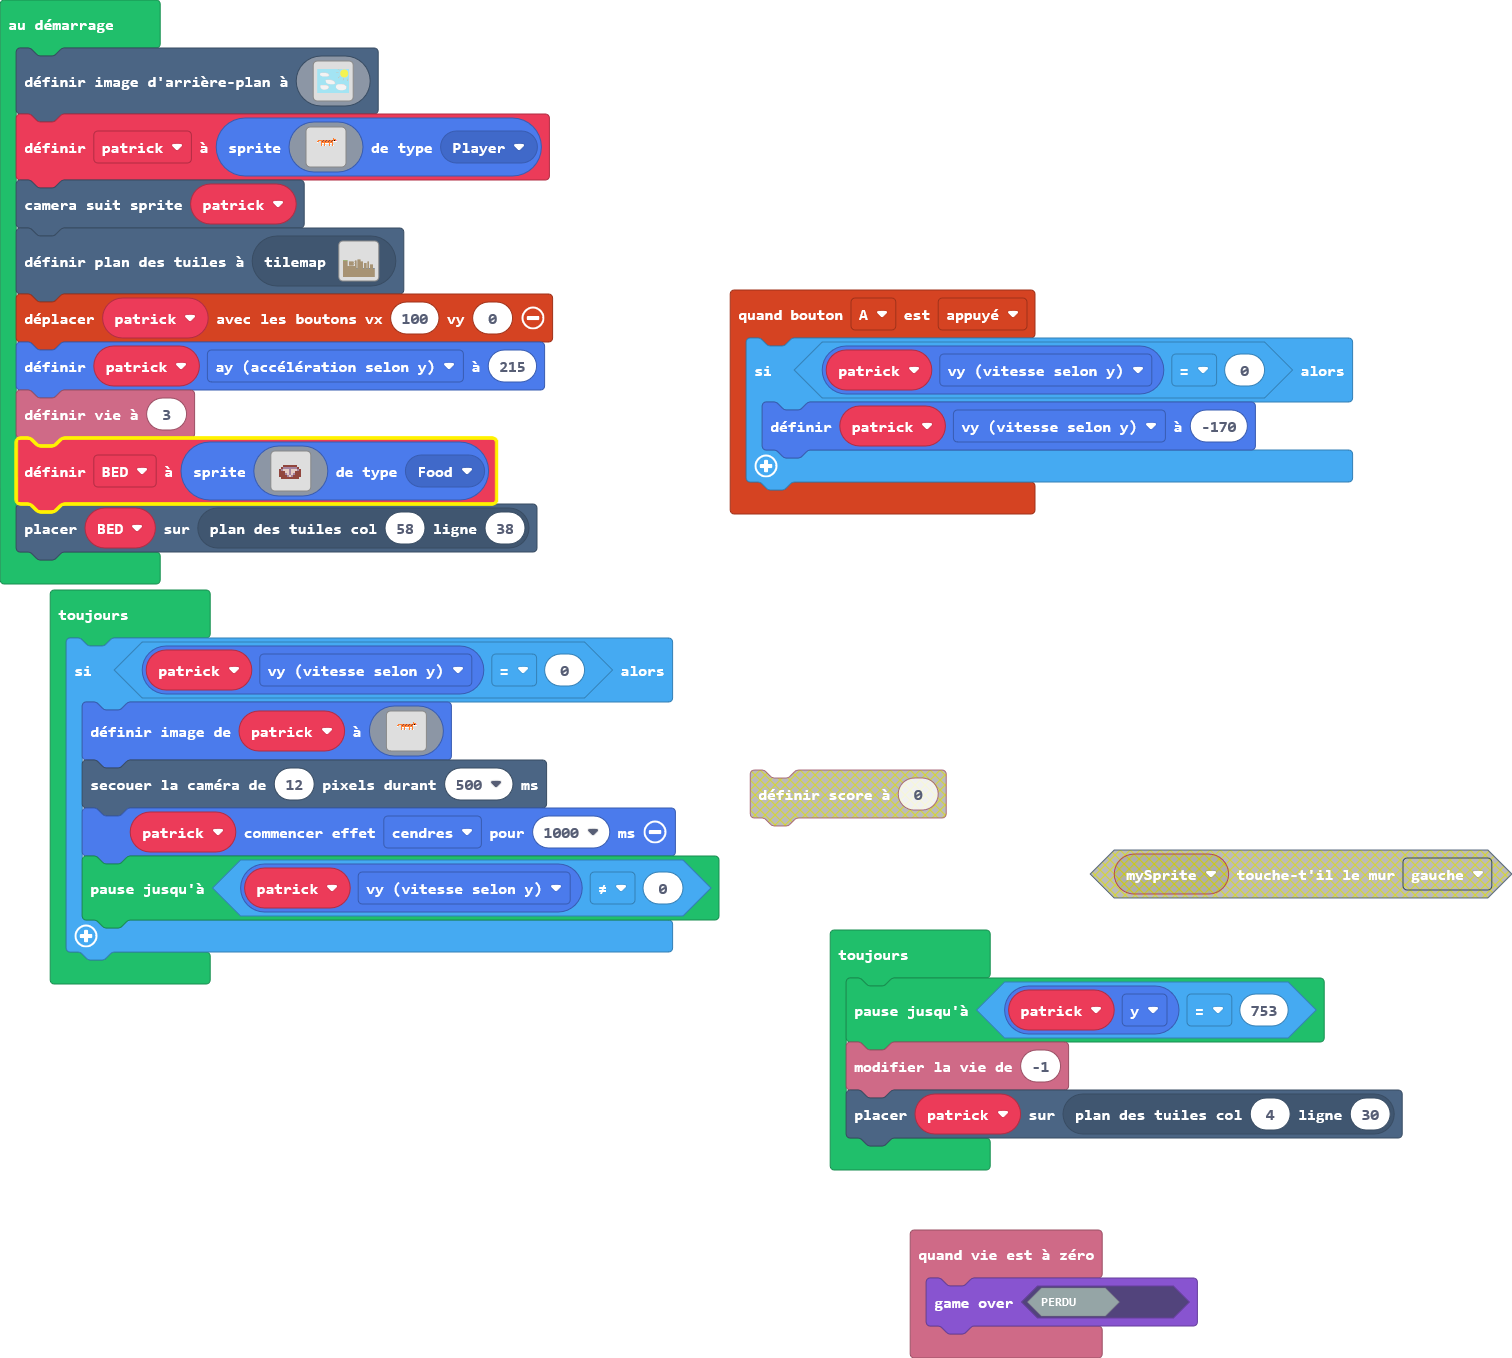
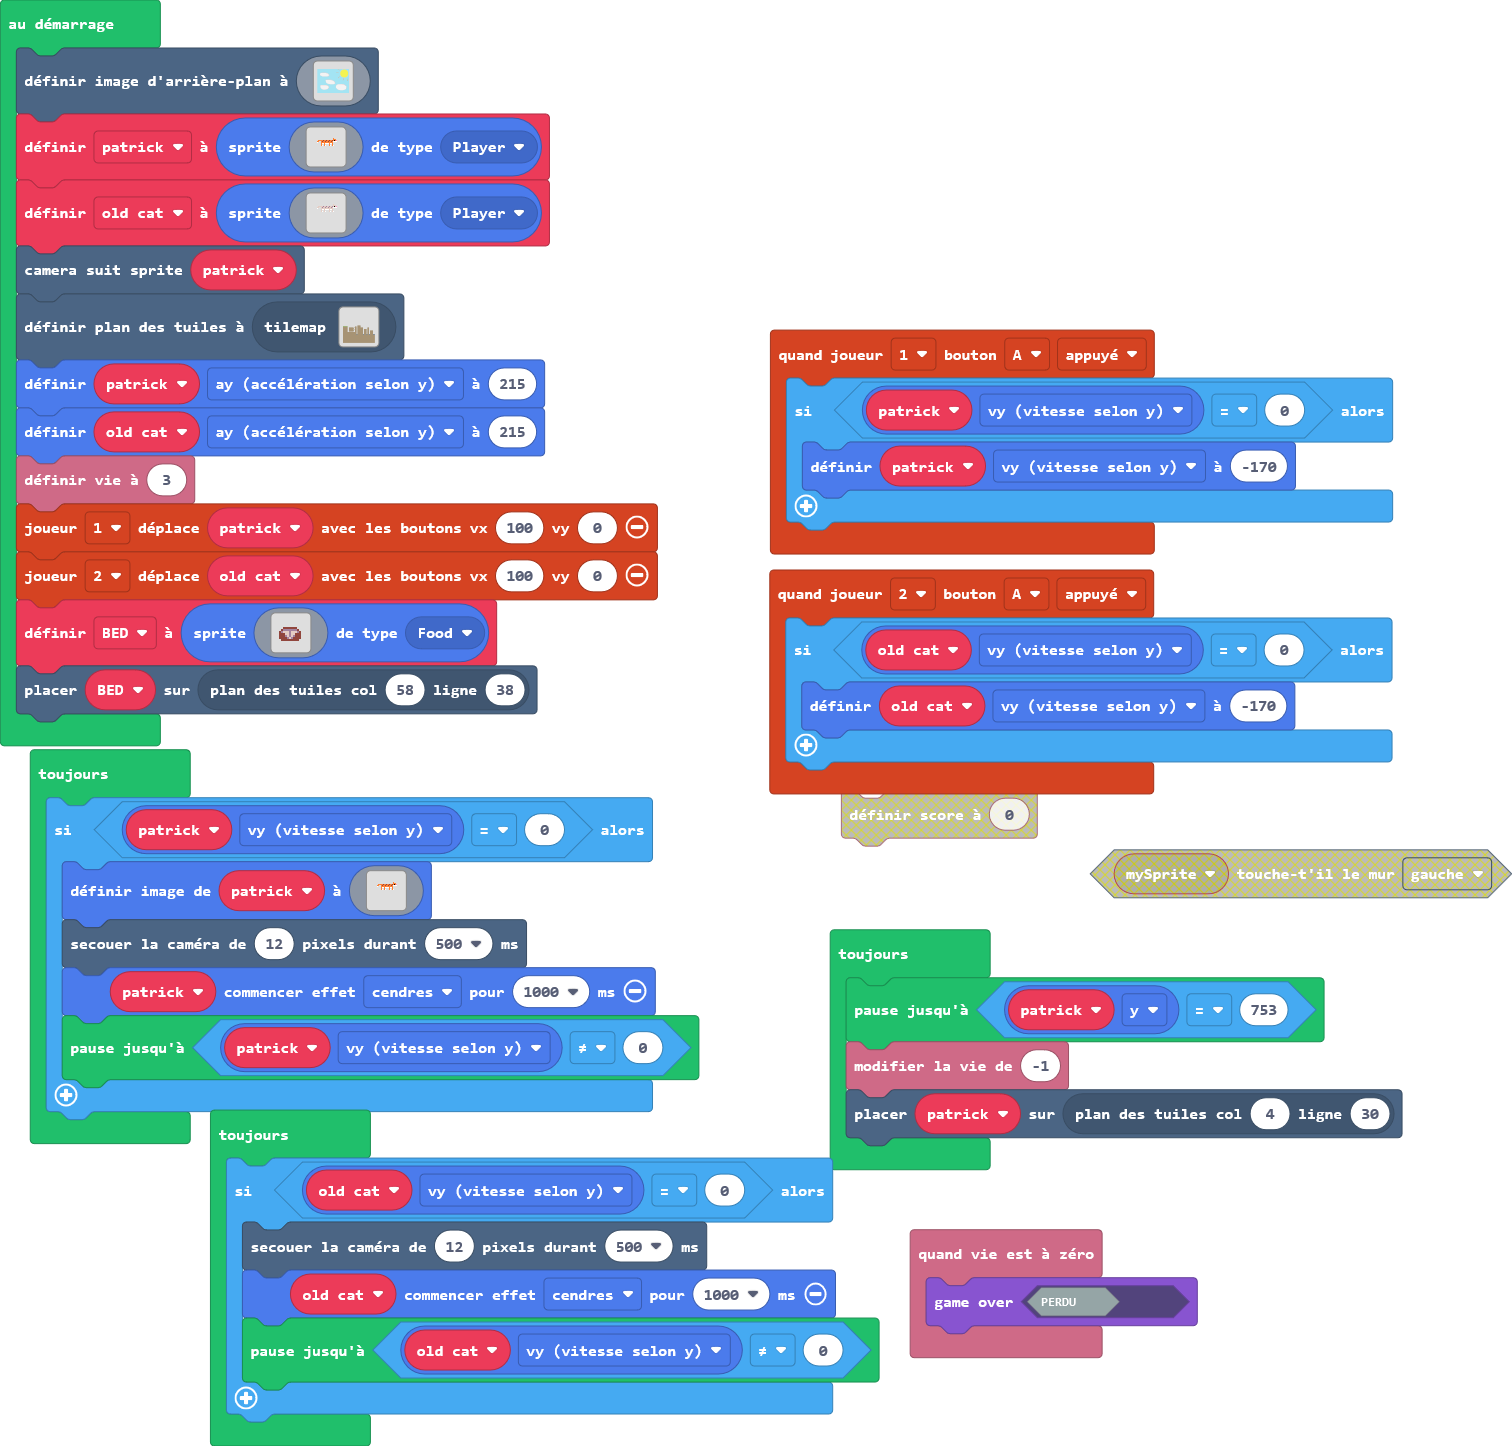
Mise à jour main.blocks, main.ts, tilemap.g.jres, tilemap.g.ts, images.g.jres, images.g.ts

diff --git a/main.ts b/main.ts
@@ -1,14 +1,20 @@
 namespace SpriteKind {
     export const BED = SpriteKind.create()
 }
-controller.A.onEvent(ControllerButtonEvent.Pressed, function () {
+controller.player1.onButtonEvent(ControllerButton.A, ControllerButtonEvent.Pressed, function () {
     if (patrick.vy == 0) {
         patrick.vy = -170
+    }
+})
+controller.player2.onButtonEvent(ControllerButton.A, ControllerButtonEvent.Pressed, function () {
+    if (old_cat.vy == 0) {
+        old_cat.vy = -170
     }
 })
 info.onLifeZero(function () {
     game.gameOver(false)
 })
+let old_cat: Sprite = null
 let patrick: Sprite = null
 scene.setBackgroundImage(img`
     9999999999999999999999999999999999999999999999999999999999999999999999999999999999999999999999999999999999999999999999999999999999999999999999999999999999999999
@@ -132,83 +138,20 @@ scene.setBackgroundImage(img`
     9999999999999999999999999999999999999999999999999999999999999999999999999999999999999999999999999999999999999999999999999999999999999999999999999999999999999999
     9999999999999999999999999999999999999999999999999999999999999999999999999999999999999999999999999999999999999999999999999999999999999999999999999999999999999999
     `)
-patrick = sprites.create(img`
-    ................................
-    ................................
-    ................................
-    ................................
-    ................................
-    ................................
-    ................................
-    .......................4........
-    .......................444......
-    ........44444e44e44e44e4f43.....
-    .......44..4e44e44e44e41111.....
-    .......1...444444444444.........
-    ...........411411114114.........
-    ...........4..4....4..4.........
-    ...........41.41...41.41........
-    ................................
-    ................................
-    ................................
-    ................................
-    ................................
-    ................................
-    ................................
-    ................................
-    ................................
-    ................................
-    ................................
-    ................................
-    ................................
-    ................................
-    ................................
-    ................................
-    ................................
-    `, SpriteKind.Player)
+patrick = sprites.create(assets.image`patrick`, SpriteKind.Player)
+old_cat = sprites.create(assets.image`old cat`, SpriteKind.Player)
 scene.cameraFollowSprite(patrick)
 tiles.setCurrentTilemap(tilemap`niveau4`)
-controller.moveSprite(patrick, 100, 0)
 patrick.ay = 215
+old_cat.ay = 215
 info.setLife(3)
+controller.player1.moveSprite(patrick, 100, 0)
+controller.player2.moveSprite(old_cat, 100, 0)
 let BED = sprites.create(assets.image`myImage2`, SpriteKind.Food)
 tiles.placeOnTile(BED, tiles.getTileLocation(58, 38))
 forever(function () {
     if (patrick.vy == 0) {
-        patrick.setImage(img`
-            ................................
-            ................................
-            ................................
-            ................................
-            ................................
-            ................................
-            ................................
-            .......................4........
-            .......................444......
-            ........44444e44e44e44e4f43.....
-            .......44..4e44e44e44e41111.....
-            .......1...444444444444.........
-            ...........411411114114.........
-            ...........4..4....4..4.........
-            ...........41.41...41.41........
-            ................................
-            ................................
-            ................................
-            ................................
-            ................................
-            ................................
-            ................................
-            ................................
-            ................................
-            ................................
-            ................................
-            ................................
-            ................................
-            ................................
-            ................................
-            ................................
-            ................................
-            `)
+        patrick.setImage(assets.image`patrick`)
         scene.cameraShake(12, 500)
         patrick.startEffect(effects.ashes, 1000)
         pauseUntil(() => patrick.vy != 0)
@@ -218,4 +161,11 @@ forever(function () {
     pauseUntil(() => patrick.y == 753)
     info.changeLifeBy(-1)
     tiles.placeOnTile(patrick, tiles.getTileLocation(4, 30))
+})
+forever(function () {
+    if (old_cat.vy == 0) {
+        scene.cameraShake(12, 500)
+        old_cat.startEffect(effects.ashes, 1000)
+        pauseUntil(() => old_cat.vy != 0)
+    }
 })

diff --git a/images.g.ts b/images.g.ts
@@ -111,6 +111,111 @@ namespace myImages {
 . . . . . . . . . . . . . . . . 
 . . . . . . . . . . . . . . . . 
 `;
+            case "image5":
+            case "myImage3":return img`
+................................
+................................
+................................
+................................
+................................
+................................
+................................
+.......................4........
+.......................444......
+........44444e44e44e44e4f43.....
+.......44..4e44e44e44e41111.....
+.......1...444444444444.........
+...........411411114114.........
+...........4..4....4..4.........
+...........41.41...41.41........
+................................
+................................
+................................
+................................
+................................
+................................
+................................
+................................
+................................
+................................
+................................
+................................
+................................
+................................
+................................
+................................
+................................
+`;
+            case "r1_7pEy}KvSKup*mncCJ":
+            case "patrick":return img`
+................................
+................................
+................................
+................................
+................................
+................................
+................................
+.......................4........
+.......................444......
+........44444e44e44e44e4f43.....
+.......44..4e44e44e44e41111.....
+.......1...444444444444.........
+...........411411114114.........
+...........4..4....4..4.........
+...........41.41...41.41........
+................................
+................................
+................................
+................................
+................................
+................................
+................................
+................................
+................................
+................................
+................................
+................................
+................................
+................................
+................................
+................................
+................................
+`;
+            case "-PupN*V$wavos0t:h[{k":
+            case "old cat":return img`
+................................
+................................
+................................
+................................
+................................
+................................
+................................
+.......................d........
+.......................ddd......
+........dddddbddbddbddbdfd3.....
+.......dd..dbddbddbddbd1111.....
+.......1...dddddddddddd.........
+...........d11d1111d11d.........
+...........d..d....d..d.........
+...........d1.d1...d1.d1........
+................................
+................................
+................................
+................................
+................................
+................................
+................................
+................................
+................................
+................................
+................................
+................................
+................................
+................................
+................................
+................................
+................................
+`;
         }
         return null;
     })

diff --git a/tilemap.g.ts b/tilemap.g.ts
@@ -135,6 +135,25 @@ namespace myTiles {
 2222222222222222222222222222222222222222222222222222222222222222
 2222222222222222222222222222222222222222222222222222222222222222
 `, [myTiles.transparency16,myTiles.tile1,myTiles.tile2,myTiles.tile3], TileScale.Sixteen);
+            case "niveau5":
+            case "niveau5":return tiles.createTilemap(hex`1000100000000000000000000000000000000000000000000000000000000000000000000000000000000000000000000000000000000000000000000000000000000000000000000000000000000000000000000000000000000000000000000000000000000000000000000000000000000000000000000000000000000000000000000000000000000000000000000000000000000000000000000000000000000000000000000000000000000000000000000000000000000000000000000000000000000000000000000000000000000000000000000000000000000000000000000000000000000000000000000000000000000000000000000000000000000000`, img`
+. . . . . . . . . . . . . . . . 
+. . . . . . . . . . . . . . . . 
+. . . . . . . . . . . . . . . . 
+. . . . . . . . . . . . . . . . 
+. . . . . . . . . . . . . . . . 
+. . . . . . . . . . . . . . . . 
+. . . . . . . . . . . . . . . . 
+. . . . . . . . . . . . . . . . 
+. . . . . . . . . . . . . . . . 
+. . . . . . . . . . . . . . . . 
+. . . . . . . . . . . . . . . . 
+. . . . . . . . . . . . . . . . 
+. . . . . . . . . . . . . . . . 
+. . . . . . . . . . . . . . . . 
+. . . . . . . . . . . . . . . . 
+. . . . . . . . . . . . . . . . 
+`, [myTiles.transparency16], TileScale.Sixteen);
         }
         return null;
     })
